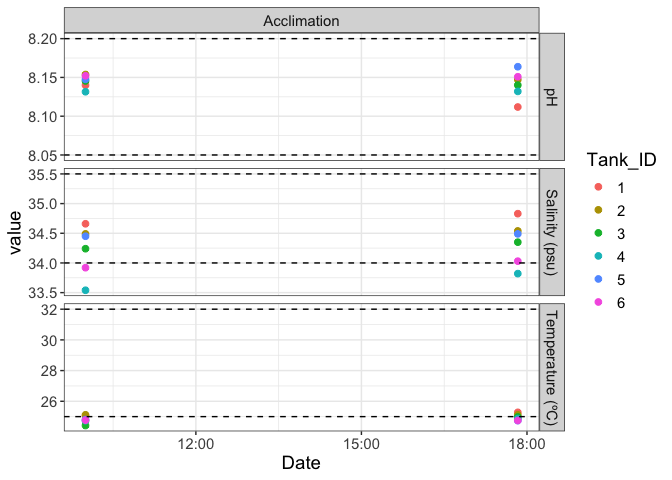
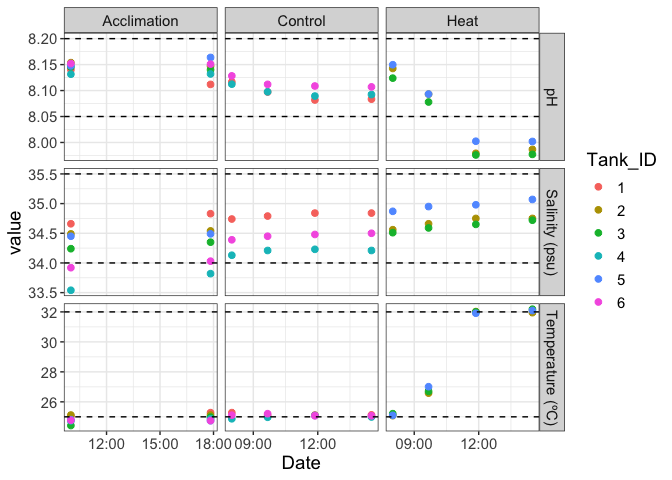
PAM and DMs plots

diff --git a/1-Pcom/code/PAM.md b/1-Pcom/code/PAM.md
@@ -1,7 +1,7 @@
 PAM
 ================
 Zoe Dellaert
-2025-05-21
+2025-06-24
 
 - [0.1 Statistical Mixed Model by treatment, timepoint, and
   tank_id](#01-statistical-mixed-model-by-treatment-timepoint-and-tank_id)
@@ -85,44 +85,55 @@ custom_colors <- c("Control" = "lightblue4", "Heat" = "#D55E00")
 
 PAM <- read.csv("../data/PAM.csv") %>% clean_names() %>% filter(date != "20250519")
 PAM <- PAM %>% mutate(date = as.factor(date)) %>% 
-                mutate(timepoint = factor(timepoint,levels = c("0","1","3","6","12","24","36","48","72","120","170"), ordered = TRUE)) %>% 
+                mutate(timepoint = factor(timepoint)) %>%#,levels = c("0","1","3","6","12",
+                                                    #           "24","36","48","72","120","170"), ordered = TRUE)) %>% 
                 mutate(plug = as.factor(plug)) %>%
-                mutate(treatment = factor(treatment,levels = c("Control","Heat", ordered=TRUE)))
+                mutate(treatment = factor(treatment,levels = c("Acclimation","Recovery","Control","Heat", ordered=TRUE)))
 
 ggplot(PAM,aes(x = date, y = fv_fm_y_1000)) + 
     geom_boxplot(aes(fill = tank_id)) + labs(x = "Date", y = "Fv/Fm", title = "Fv/Fm by Date and Tank") +
   theme_minimal()
 ```
 
-    ## Warning: Removed 1 row containing non-finite outside the scale range
-    ## (`stat_boxplot()`).
-
 ![](PAM_files/figure-gfm/unnamed-chunk-1-1.png)<!-- -->
 
 ``` r
-PAM_exp <- PAM %>% filter(date!="20250521" & date!="20250520")
+outlier_dates <- c("20250609","20250610","20250620")
+  
+PAM <- PAM %>% filter(!(date %in%outlier_dates))
+
+ggplot(PAM,aes(x = date, y = fv_fm_y_1000)) + 
+    geom_boxplot(aes(fill = treatment)) + labs(x = "Date", y = "Fv/Fm", title = "Fv/Fm by Date and Tank") +
+  theme_minimal()
+```
+
+![](PAM_files/figure-gfm/unnamed-chunk-1-2.png)<!-- -->
+
+``` r
+ggsave("../output/FvFm_recovery_acclimation.png", plot = last_plot(), width = 8, height = 4)
+```
+
+``` r
+PAM_exp <- PAM %>% filter(treatment!="Acclimation" & treatment!="Recovery")
 table(PAM_exp$plug)
 ```
 
     ## 
-    ## 1100 1109 1133 1205 1253 1342 1555 1607 1614 1620 1621 1628 1748 1757 2002 2185 
-    ##   11   11   11   11   11   11   11   11   11   11   11   11   11   11   11   11 
-    ## 2360 2401 
-    ##   11   11
+    ## 1043 1065 1102 1122 1130 1133 1209 1244 1281 1337 1473 1555 1575 1615 1626 1761 
+    ##    3    3    3    3    3    3    3    3    3    3    3    3    3    3    3    3 
+    ## 1771 2730 
+    ##    3    3
 
 ``` r
 ggplot(PAM_exp,aes(x = timepoint, y = fv_fm_y_1000)) + 
     geom_boxplot(aes(fill = treatment)) +theme_minimal() +scale_fill_manual(values = custom_colors) 
 ```
 
-    ## Warning: Removed 1 row containing non-finite outside the scale range
-    ## (`stat_boxplot()`).
-
 ![](PAM_files/figure-gfm/unnamed-chunk-2-1.png)<!-- -->
 
 ``` r
 ggplot(PAM_exp,aes(x = timepoint, y = fv_fm_y_1000, group = plug)) + 
-    geom_path(aes(color=plug)) + theme_minimal() +facet_wrap(tank_id~treatment)
+    geom_path(aes(color=plug)) + theme_minimal() #+facet_wrap(tank_id~treatment)
 ```
 
 ![](PAM_files/figure-gfm/unnamed-chunk-2-2.png)<!-- -->
@@ -140,72 +151,36 @@ summary(model)
     ## Formula: fv_fm_y_1000 ~ treatment * timepoint + (1 | treatment:tank_id)
     ##    Data: PAM_exp
     ## 
-    ## REML criterion at convergence: -880.4
+    ## REML criterion at convergence: -111.8
     ## 
     ## Scaled residuals: 
     ##     Min      1Q  Median      3Q     Max 
-    ## -3.1723 -0.4964  0.0992  0.5258  3.0227 
+    ## -2.2119 -0.3526  0.1977  0.5974  1.6280 
     ## 
     ## Random effects:
     ##  Groups            Name        Variance  Std.Dev.
-    ##  treatment:tank_id (Intercept) 2.511e-05 0.005011
-    ##  Residual                      2.737e-04 0.016545
-    ## Number of obs: 197, groups:  treatment:tank_id, 6
+    ##  treatment:tank_id (Intercept) 0.0006556 0.02560 
+    ##  Residual                      0.0040205 0.06341 
+    ## Number of obs: 54, groups:  treatment:tank_id, 6
     ## 
     ## Fixed effects:
-    ##                              Estimate Std. Error         df t value Pr(>|t|)
-    ## (Intercept)                  0.726603   0.003342   4.022434 217.426 2.44e-09
-    ## treatmentHeat               -0.020310   0.004723   4.010996  -4.301 0.012564
-    ## timepoint.L                  0.034968   0.005518 171.013313   6.337 2.01e-09
-    ## timepoint.Q                 -0.014667   0.005548 171.034281  -2.644 0.008962
-    ## timepoint.C                 -0.033267   0.005531 171.022369  -6.015 1.06e-08
-    ## timepoint^4                  0.022095   0.005535 171.024890   3.992 9.70e-05
-    ## timepoint^5                  0.010506   0.005551 171.036260   1.893 0.060091
-    ## timepoint^6                 -0.004329   0.005519 171.014244  -0.784 0.433944
-    ## timepoint^7                  0.011665   0.005571 171.050363   2.094 0.037754
-    ## timepoint^8                  0.015752   0.005517 171.012846   2.855 0.004836
-    ## timepoint^9                 -0.028894   0.005578 171.055154  -5.180 6.19e-07
-    ## timepoint^10                 0.015913   0.005598 171.068626   2.843 0.005018
-    ## treatmentHeat:timepoint.L   -0.027521   0.007802 171.012182  -3.528 0.000539
-    ## treatmentHeat:timepoint.Q   -0.001754   0.007823 171.022742  -0.224 0.822871
-    ## treatmentHeat:timepoint.C    0.007538   0.007811 171.016727   0.965 0.335878
-    ## treatmentHeat:timepoint^4   -0.010013   0.007813 171.017997  -1.282 0.201751
-    ## treatmentHeat:timepoint^5   -0.012525   0.007825 171.023745  -1.601 0.111283
-    ## treatmentHeat:timepoint^6    0.013011   0.007802 171.012648   1.668 0.097230
-    ## treatmentHeat:timepoint^7   -0.005839   0.007839 171.030928  -0.745 0.457381
-    ## treatmentHeat:timepoint^8   -0.015635   0.007801 171.011948  -2.004 0.046624
-    ## treatmentHeat:timepoint^9    0.014803   0.007844 171.033381   1.887 0.060828
-    ## treatmentHeat:timepoint^10   0.001638   0.007858 171.040316   0.208 0.835098
-    ##                               
-    ## (Intercept)                ***
-    ## treatmentHeat              *  
-    ## timepoint.L                ***
-    ## timepoint.Q                ** 
-    ## timepoint.C                ***
-    ## timepoint^4                ***
-    ## timepoint^5                .  
-    ## timepoint^6                   
-    ## timepoint^7                *  
-    ## timepoint^8                ** 
-    ## timepoint^9                ***
-    ## timepoint^10               ** 
-    ## treatmentHeat:timepoint.L  ***
-    ## treatmentHeat:timepoint.Q     
-    ## treatmentHeat:timepoint.C     
-    ## treatmentHeat:timepoint^4     
-    ## treatmentHeat:timepoint^5     
-    ## treatmentHeat:timepoint^6  .  
-    ## treatmentHeat:timepoint^7     
-    ## treatmentHeat:timepoint^8  *  
-    ## treatmentHeat:timepoint^9  .  
-    ## treatmentHeat:timepoint^10    
+    ##                           Estimate Std. Error        df t value Pr(>|t|)    
+    ## (Intercept)               0.621000   0.025792 12.373063  24.077 9.08e-12 ***
+    ## treatmentHeat             0.008222   0.036476 12.373063   0.225    0.825    
+    ## timepoint1                0.029333   0.029890 44.000000   0.981    0.332    
+    ## timepoint3                0.031333   0.029890 44.000000   1.048    0.300    
+    ## treatmentHeat:timepoint1 -0.023222   0.042272 44.000000  -0.549    0.586    
+    ## treatmentHeat:timepoint3 -0.048111   0.042272 44.000000  -1.138    0.261    
     ## ---
     ## Signif. codes:  0 '***' 0.001 '**' 0.01 '*' 0.05 '.' 0.1 ' ' 1
-
     ## 
-    ## Correlation matrix not shown by default, as p = 22 > 12.
-    ## Use print(x, correlation=TRUE)  or
-    ##     vcov(x)        if you need it
+    ## Correlation of Fixed Effects:
+    ##             (Intr) trtmnH tmpnt1 tmpnt3 trtH:1
+    ## treatmentHt -0.707                            
+    ## timepoint1  -0.579  0.410                     
+    ## timepoint3  -0.579  0.410  0.500              
+    ## trtmntHt:t1  0.410 -0.579 -0.707 -0.354       
+    ## trtmntHt:t3  0.410 -0.579 -0.354 -0.707  0.500
 
 ``` r
 # Estimated marginal means (adjusted for random effects and model structure)
@@ -214,48 +189,16 @@ pairs(emm)
 ```
 
     ## timepoint = 0:
-    ##  contrast       estimate      SE   df t.ratio p.value
-    ##  Control - Heat   0.0104 0.00881 42.3   1.186  0.2423
+    ##  contrast       estimate     SE   df t.ratio p.value
+    ##  Control - Heat -0.00822 0.0365 12.4  -0.225  0.8253
     ## 
     ## timepoint = 1:
-    ##  contrast       estimate      SE   df t.ratio p.value
-    ##  Control - Heat   0.0157 0.00881 42.3   1.779  0.0825
+    ##  contrast       estimate     SE   df t.ratio p.value
+    ##  Control - Heat  0.01500 0.0365 12.4   0.411  0.6879
     ## 
     ## timepoint = 3:
-    ##  contrast       estimate      SE   df t.ratio p.value
-    ##  Control - Heat   0.0118 0.00881 42.3   1.337  0.1883
-    ## 
-    ## timepoint = 6:
-    ##  contrast       estimate      SE   df t.ratio p.value
-    ##  Control - Heat  -0.0100 0.00881 42.3  -1.135  0.2626
-    ## 
-    ## timepoint = 12:
-    ##  contrast       estimate      SE   df t.ratio p.value
-    ##  Control - Heat   0.0219 0.00881 42.3   2.485  0.0170
-    ## 
-    ## timepoint = 24:
-    ##  contrast       estimate      SE   df t.ratio p.value
-    ##  Control - Heat   0.0358 0.00881 42.3   4.062  0.0002
-    ## 
-    ## timepoint = 36:
-    ##  contrast       estimate      SE   df t.ratio p.value
-    ##  Control - Heat   0.0211 0.00903 45.7   2.336  0.0239
-    ## 
-    ## timepoint = 48:
-    ##  contrast       estimate      SE   df t.ratio p.value
-    ##  Control - Heat   0.0279 0.00881 42.3   3.167  0.0029
-    ## 
-    ## timepoint = 72:
-    ##  contrast       estimate      SE   df t.ratio p.value
-    ##  Control - Heat   0.0280 0.00881 42.3   3.179  0.0028
-    ## 
-    ## timepoint = 120:
-    ##  contrast       estimate      SE   df t.ratio p.value
-    ##  Control - Heat   0.0246 0.00881 42.3   2.788  0.0079
-    ## 
-    ## timepoint = 170:
-    ##  contrast       estimate      SE   df t.ratio p.value
-    ##  Control - Heat   0.0363 0.00881 42.3   4.125  0.0002
+    ##  contrast       estimate     SE   df t.ratio p.value
+    ##  Control - Heat  0.03989 0.0365 12.4   1.094  0.2950
     ## 
     ## Degrees-of-freedom method: kenward-roger
 
@@ -279,18 +222,10 @@ summary_table <- as.data.frame(pairs(emm)) %>%
 print(summary_table)
 ```
 
-    ##    Timepoint Estimate (Control-Heat)     SE t-ratio  p-value Significant?
-    ## 1          0                  0.0104 0.0088    1.19 0.242000             
-    ## 2          1                  0.0157 0.0088    1.78 0.082500            .
-    ## 3          3                  0.0118 0.0088    1.34 0.188000             
-    ## 4          6                 -0.0100 0.0088   -1.14 0.263000             
-    ## 5         12                  0.0219 0.0088    2.49 0.017000            *
-    ## 6         24                  0.0358 0.0088    4.06 0.000206          ***
-    ## 7         36                  0.0211 0.0090    2.34 0.023900            *
-    ## 8         48                  0.0279 0.0088    3.17 0.002860           **
-    ## 9         72                  0.0280 0.0088    3.18 0.002760           **
-    ## 10       120                  0.0246 0.0088    2.79 0.007910           **
-    ## 11       170                  0.0363 0.0088    4.13 0.000170          ***
+    ##   Timepoint Estimate (Control-Heat)     SE t-ratio p-value Significant?
+    ## 1         0                 -0.0082 0.0365   -0.23   0.825             
+    ## 2         1                  0.0150 0.0365    0.41   0.688             
+    ## 3         3                  0.0399 0.0365    1.09   0.295
 
 ``` r
 write.csv(summary_table, "../output/FvFm_treatment_effect_summary.csv", row.names = FALSE)
@@ -391,15 +326,6 @@ ggplot(PAM_exp, aes(x = timepoint, y = fv_fm_y_1000, color = treatment, shape = 
   stat_compare_means(aes(group = treatment),method = "anova",label = "p.format",size = 3)
 ```
 
-    ## Warning: Removed 1 row containing non-finite outside the scale range (`stat_summary()`).
-    ## Removed 1 row containing non-finite outside the scale range (`stat_summary()`).
-
-    ## Warning: Removed 1 row containing non-finite outside the scale range
-    ## (`stat_compare_means()`).
-
-    ## Warning: Removed 1 row containing missing values or values outside the scale range
-    ## (`geom_point()`).
-
 ![](PAM_files/figure-gfm/unnamed-chunk-6-3.png)<!-- -->
 
 ``` r
@@ -415,8 +341,5 @@ ggplot(PAM_means, aes(x = timepoint, y = FvFm_mean, color = tank_id, group = tan
 ggplot(PAM_exp, aes(x = timepoint, y = fv_fm_y_1000, color = treatment)) +
   geom_boxplot(outlier.colour = "red", outlier.shape = 8) 
 ```
-
-    ## Warning: Removed 1 row containing non-finite outside the scale range
-    ## (`stat_boxplot()`).
 
 ![](PAM_files/figure-gfm/unnamed-chunk-7-1.png)<!-- -->

diff --git a/1-Pcom/code/DMs.md b/1-Pcom/code/DMs.md
@@ -45,20 +45,20 @@ head(daily)
 tail(daily) # check to make sure data from today is there
 ```
 
-    ##        Date   Treatment Tank_ID  Time Initials Temperature_C pH_mv Salinity_psu
-    ## 7  20250624 Acclimation       1 17:50       ZD         25.28 -61.6        34.83
-    ## 8  20250624 Acclimation       2 17:50       ZD         25.12 -63.6        34.54
-    ## 9  20250624 Acclimation       3 17:50       ZD         24.98 -63.1        34.35
-    ## 10 20250624 Acclimation       4 17:50       ZD         24.87 -62.6        33.82
-    ## 11 20250624 Acclimation       5 17:50       ZD         24.74 -64.3        34.49
-    ## 12 20250624 Acclimation       6 17:50       ZD         24.75 -63.6        34.03
+    ##        Date Treatment Tank_ID  Time Initials Temperature_C pH_mv Salinity_psu
+    ## 31 20250625   Control       1 14:30       JH         25.13 -59.8        34.84
+    ## 32 20250625      Heat       2 14:30       JH         31.95 -59.2        34.75
+    ## 33 20250625      Heat       3 14:30       JH         32.18 -58.8        34.72
+    ## 34 20250625   Control       4 14:30       JH         24.99 -60.3        34.21
+    ## 35 20250625      Heat       5 14:30       JH         32.09 -60.2        35.07
+    ## 36 20250625   Control       6 14:30       JH         25.07 -61.2        34.50
     ##    tris.date Probe.Set notes
-    ## 7   20250618    Probe1      
-    ## 8   20250618    Probe1      
-    ## 9   20250618    Probe1      
-    ## 10  20250618    Probe1      
-    ## 11  20250618    Probe1      
-    ## 12  20250618    Probe1
+    ## 31  20250618    Probe1      
+    ## 32  20250618    Probe1      
+    ## 33  20250618    Probe1      
+    ## 34  20250618    Probe1      
+    ## 35  20250618    Probe1      
+    ## 36  20250618    Probe1
 
 ``` r
 daily$Date <- as.Date(as.character(daily$Date), format = "%Y%m%d")
@@ -74,19 +74,19 @@ daily.probe1 <- daily %>% filter(Probe.Set == "Probe1")
 range(na.omit(daily.probe1$Temperature_C))
 ```
 
-    ## [1] 24.42 25.28
+    ## [1] 24.42 32.18
 
 ``` r
 range(na.omit(daily.probe1$pH_mv))
 ```
 
-    ## [1] -64.3 -61.6
+    ## [1] -64.3 -58.6
 
 ``` r
 range(na.omit(daily.probe1$Salinity_psu))
 ```
 
-    ## [1] 33.54 34.83
+    ## [1] 33.54 35.07
 
 ## 0.3 Calculate total pH from Probe Set 1
 
@@ -238,12 +238,12 @@ summary <- daily_exp%>%
     ## # A tibble: 6 × 9
     ##   Tank_ID Temperature_C_mean Temperature_C_sd Salinity_psu_mean Salinity_psu_sd
     ##   <chr>                <dbl>            <dbl>             <dbl>           <dbl>
-    ## 1 1                     25.2           0.170               34.7          0.120 
-    ## 2 2                     25.1           0                   34.5          0.0354
-    ## 3 3                     24.7           0.396               34.3          0.0778
-    ## 4 4                     24.8           0.0990              33.7          0.198 
-    ## 5 5                     24.8           0.0495              34.5          0.0283
-    ## 6 6                     24.8           0.0141              34.0          0.0778
+    ## 1 1                     25.2           0.0993              34.8          0.0717
+    ## 2 2                     27.6           3.41                34.6          0.111 
+    ## 3 3                     27.6           3.57                34.5          0.184 
+    ## 4 4                     24.9           0.124               34.0          0.282 
+    ## 5 5                     27.6           3.50                34.8          0.265 
+    ## 6 6                     25.0           0.190               34.3          0.253 
     ## # ℹ 4 more variables: pH.total_mean <dbl>, pH.total_sd <dbl>, pH_mv_mean <dbl>,
     ## #   pH_mv_sd <dbl>
 
